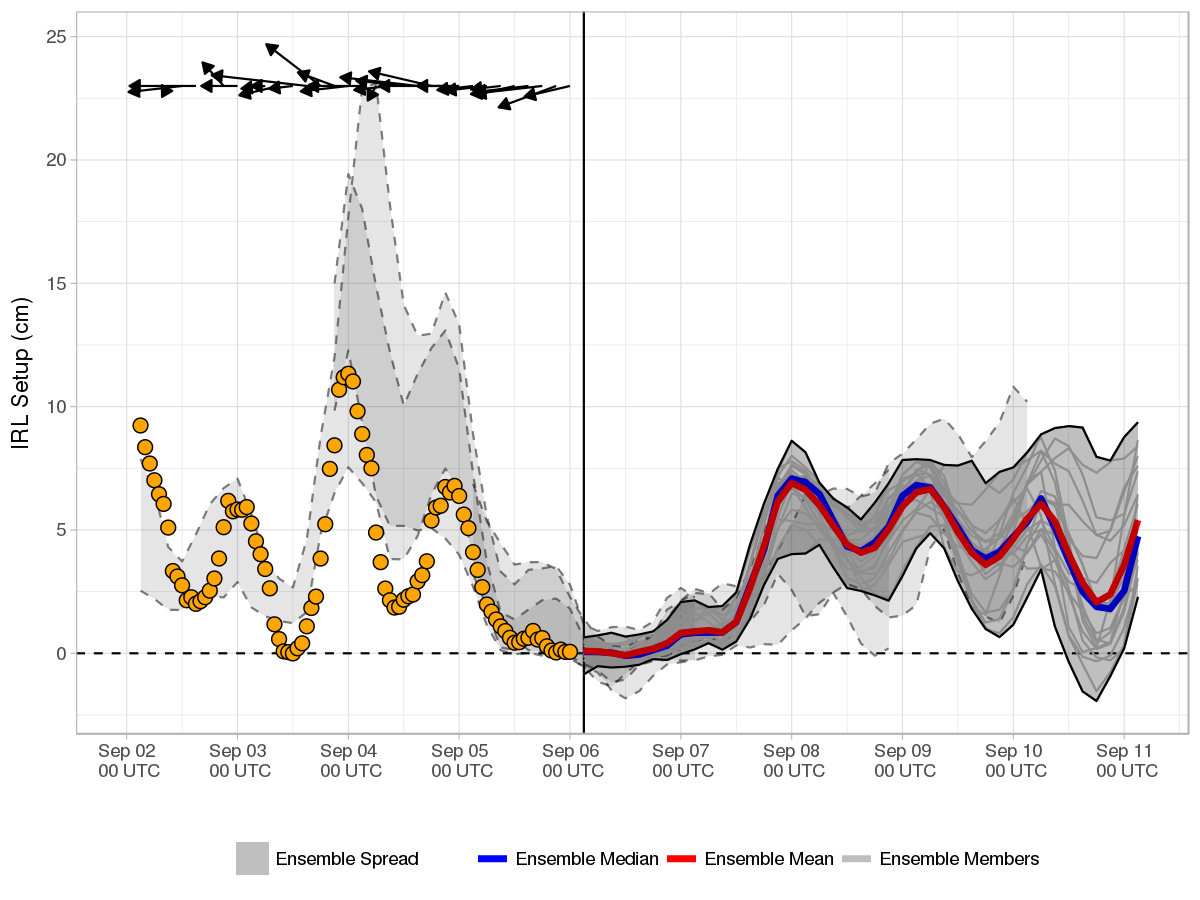
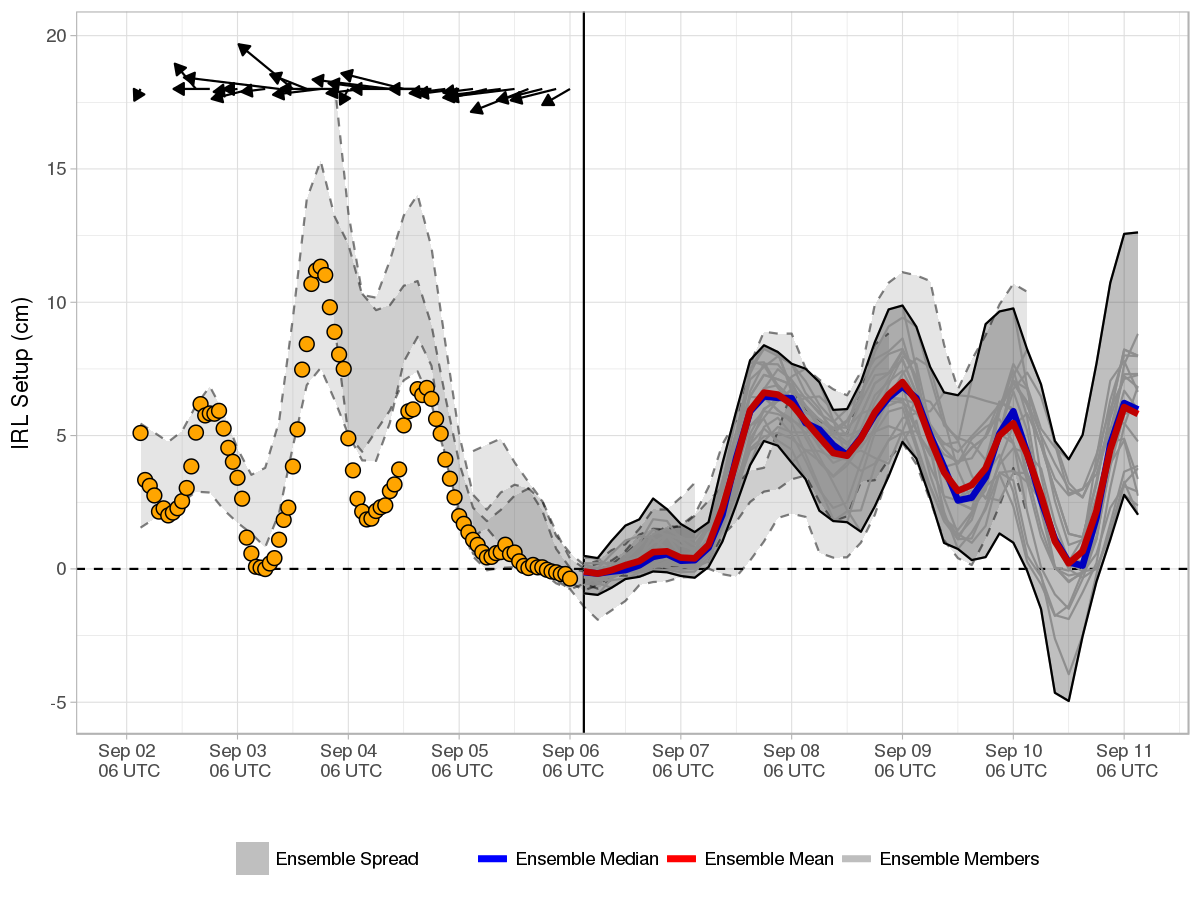
Forecast Update

diff --git a/docs/index.md b/docs/index.md
@@ -1,9 +1,9 @@
-Current Forecast 2018-09-05, Cycle 18 UTC
+Current Forecast 2018-09-06, Cycle 00 UTC
 -----------------------------------------
 
 [![](img/raw_setup.png)](https://fit-winds.github.io/IRLSetup/img/raw_setup.png)
 
-> Forecast valid 2018-09-05 20:25:22.
+> Forecast valid 2018-09-06 02:22:18.
 
 Explanation
 -----------
@@ -23,7 +23,7 @@ Ensemble Forecast System
 cycles. Calculation of the IRL setup is performed shortly after a new
 GEFS cycle is made available on the [data access
 link](http://www.ftp.ncep.noaa.gov/data/nccf/com/gens/prod/). The
-current cycle 2018-09-05 18 UTC 0.5° GEFS mean and median forecasts of
+current cycle 2018-09-06 00 UTC 0.5° GEFS mean and median forecasts of
 setup are represented by the red and blue curves, respectively. Ensemble
 spread from the current and three previous GEFS runs are shaded grey and
 bounded by solid and dashed curves, respectively.
